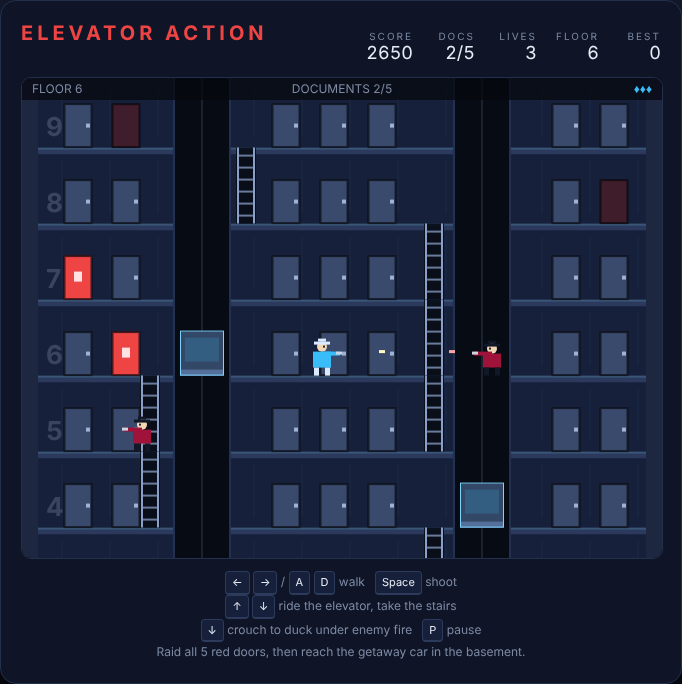
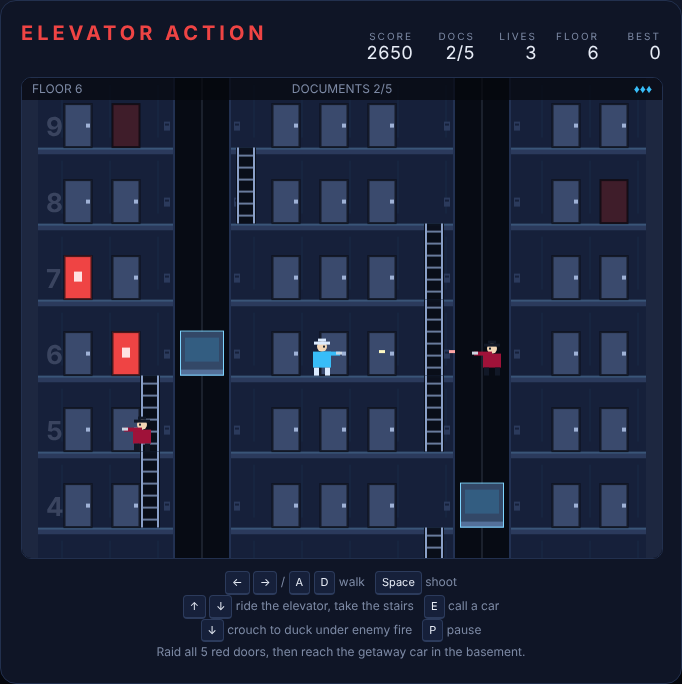
Add elevator call buttons and polish Elevator Action
A scripted bot playthrough soft-locked on floor 8: the shafts split each
floor into three zones, and with both cars parked elsewhere a zone can be a
dead end. Cars can now be called to your floor with E (or Enter) while
standing by a shaft doorway, with call plates that light up in range.

The call runs on its own key rather than Up/Down because a stairwell's snap
zone can cover a doorway's whole call range, which left about four pixels of
floor where a car could be called at all.

Also: figures now read as people rather than coloured blocks, the help
legend and docs cover the call key, and the README marks the game Complete.
The bot now finishes the building — five documents and the basement escape —
and the suite is 81 passing tests.

Claude-Session: https://claude.ai/code/session_01BW6kgjXZLT5MXwmKtbhaHk

Changed region(s): [[0.2771, 0.8596, 0.739, 0.9211]]

diff --git a/ElevatorAction/tests/elevator-action.spec.js b/ElevatorAction/tests/elevator-action.spec.js
@@ -501,6 +501,116 @@ test.describe('Elevator Action', () => {
             );
         });
 
+        test('holding the call key beside a shaft calls the car toward your floor', async ({ page }) => {
+            await page.evaluate(() => {
+                cars[0].y = floorY(6);
+                player.floor = 4;
+                player.y = floorY(4);
+                player.x = shafts[0].x - shafts[0].w / 2 - 4;
+                player.mode = 'floor';
+            });
+            await hold(page, 'KeyE');
+            await step(page, 120);
+            const { carY, lo, hi } = await page.evaluate(() => ({
+                carY: cars[0].y,
+                lo: floorY(4),
+                hi: floorY(6),
+            }));
+            expect(carY).toBeLessThan(hi);
+            expect(carY).toBeGreaterThan(lo);
+        });
+
+        test('a called car stops level with the floor and can be boarded', async ({ page }) => {
+            await page.evaluate(() => {
+                cars[0].y = floorY(6);
+                player.floor = 4;
+                player.y = floorY(4);
+                player.x = shafts[0].x - shafts[0].w / 2 - 4;
+                player.mode = 'floor';
+            });
+            await hold(page, 'KeyE');
+            await step(page, 600);
+            expect(await page.evaluate(() => cars[0].y)).toBe(await page.evaluate(() => floorY(4)));
+            expect(await page.evaluate(() => player.mode)).toBe('floor');
+
+            await hold(page, 'KeyE', false);
+            await hold(page, 'ArrowRight');
+            await step(page, 40);
+            expect(await page.evaluate(() => player.mode)).toBe('elevator');
+        });
+
+        test('calling never drags a car past the player floor', async ({ page }) => {
+            await page.evaluate(() => {
+                cars[0].y = floorY(2);
+                player.floor = 5;
+                player.y = floorY(5);
+                player.x = shafts[0].x + shafts[0].w / 2 + 32;
+                player.mode = 'floor';
+            });
+            await hold(page, 'KeyE');
+            await step(page, 900);
+            expect(await page.evaluate(() => cars[0].y)).toBe(await page.evaluate(() => floorY(5)));
+        });
+
+        test('the call key works from a stairwell too, without climbing it', async ({ page }) => {
+            await page.evaluate(() => {
+                // A stairwell slot sits close enough to a shaft that Up or Down
+                // there would mean "climb"; the call key is unambiguous.
+                const s = stairs.find(
+                    (st) =>
+                        st.upper === 3 &&
+                        shafts.some((sh) => Math.abs(st.x - sh.x) <= sh.w / 2 + CALL_DX)
+                );
+                cars[0].y = floorY(8);
+                cars[1].y = floorY(8);
+                player.floor = 3;
+                player.y = floorY(3);
+                player.x = s.x;
+                player.mode = 'floor';
+            });
+            await hold(page, 'KeyE');
+            await step(page, 20);
+            expect(await page.evaluate(() => player.mode)).toBe('floor');
+            const moved = await page.evaluate(() =>
+                cars.some((c) => Math.abs(c.y - floorY(8)) > 0.5)
+            );
+            expect(moved).toBe(true);
+        });
+
+        test('Up or Down beside a shaft still means stairs and crouching', async ({ page }) => {
+            await page.evaluate(() => {
+                cars[0].y = floorY(8);
+                player.floor = 4;
+                player.y = floorY(4);
+                player.x = shafts[0].x - shafts[0].w / 2 - 4;
+                player.mode = 'floor';
+            });
+            await hold(page, 'ArrowDown');
+            await step(page, 20);
+            expect(await page.evaluate(() => cars[0].y)).toBe(await page.evaluate(() => floorY(8)));
+            const pose = await page.evaluate(() => player.mode);
+            // Either a stairwell is underfoot, or the player simply crouches —
+            // never a lift call.
+            expect(['floor', 'ladder']).toContain(pose);
+        });
+
+        test('the call key does nothing away from a shaft', async ({ page }) => {
+            await page.evaluate(() => {
+                cars[0].y = floorY(8);
+                cars[1].y = floorY(8);
+                player.floor = 4;
+                player.y = floorY(4);
+                player.x = 320;
+                player.mode = 'floor';
+            });
+            await hold(page, 'KeyE');
+            await step(page, 60);
+            const moved = await page.evaluate(() =>
+                cars.some((c) => Math.abs(c.y - floorY(8)) > 0.001)
+            );
+            expect(moved).toBe(false);
+        });
+
         test('a player cannot walk out of a car between floors', async ({ page }) => {
             await page.evaluate(() => {
                 cars[0].y = floorY(6) - FLOOR_H / 2;

diff --git a/ElevatorAction/game.js b/ElevatorAction/game.js
@@ -36,6 +36,7 @@ const BULLET_SPEED = 320;
 const SHAFT_W = 56;
 const CAR_W = 44;
 const BOARD_HALF = 14;               // how centred you must be to board a car
+const CALL_DX = 36;                  // how close to a shaft the call button works
 const SNAP = 3;                      // "level with the floor" tolerance
 const DOOR_W = 28;
 const STAIR_W = 20;
@@ -69,6 +70,7 @@ const RIGHT_KEYS = ['ArrowRight', 'KeyD'];
 const UP_KEYS = ['ArrowUp', 'KeyW'];
 const DOWN_KEYS = ['ArrowDown', 'KeyS'];
 const SHOOT_KEYS = ['Space'];
+const CALL_KEYS = ['KeyE', 'Enter'];
 
 // --- state -----------------------------------------------------------------
 
@@ -331,20 +333,22 @@ function walkFloor(dt, left, right, up, down) {
 
     if (left !== right) player.dir = left ? -1 : 1;
 
+    // The call key summons a car in the shaft beside you. It is deliberately
+    // not Up or Down: a stairwell slot can sit well inside the call range, and
+    // sharing the key would leave only a few pixels where calling is possible.
+    if (held(CALL_KEYS)) {
+        const sh = shaftBeside(player.x);
+        if (sh) callCar(sh, feet, dt);
+    }
+
     // Down means: take the stairs if you are standing on them, else crouch.
-    if (down && !up) {
-        const s = stairAt(player.x, feet, 'top');
+    if (down !== up) {
+        const s = stairAt(player.x, feet, down ? 'top' : 'bottom');
         if (s) {
-            enterStairs(s, 1);
+            enterStairs(s, down ? 1 : -1);
             return;
         }
-        player.crouch = true;
-    } else if (up && !down) {
-        const s = stairAt(player.x, feet, 'bottom');
-        if (s) {
-            enterStairs(s, -1);
-            return;
-        }
+        if (down) player.crouch = true;
     }
 
     if (player.crouch || left === right) return;
@@ -373,6 +377,44 @@ function walkFloor(dt, left, right, up, down) {
             return;
         }
     }
+}
+
+// The shaft whose doorway the player is standing next to, if any.
+function shaftBeside(x) {
+    for (const sh of shafts) {
+        const l = sh.x - sh.w / 2;
+        const r = sh.x + sh.w / 2;
+        if (x >= l - CALL_DX && x <= r + CALL_DX) return sh;
+    }
+    return null;
+}
+
+// Summon the nearest car in a shaft to this floor. Returns false when there is
+// nothing to move: no car in that shaft, or one already level with the floor.
+function callCar(shaft, feet, dt) {
+    let idx = -1;
+    let bestGap = Infinity;
+    for (let i = 0; i < cars.length; i++) {
+        if (cars[i].x !== shaft.x) continue;
+        const gap = Math.abs(cars[i].y - feet);
+        if (gap < bestGap) {
+            bestGap = gap;
+            idx = i;
+        }
+    }
+    if (idx < 0) return false;
+
+    const c = cars[idx];
+    if (Math.abs(c.y - feet) <= SNAP) {
+        c.y = feet;
+        return false;
+    }
+
+    const dir = c.y < feet ? 1 : -1;
+    c.y += dir * CAR_SPEED * dt;
+    if ((dir > 0 && c.y > feet) || (dir < 0 && c.y < feet)) c.y = feet;
+    c.y = clamp(c.y, floorY(0), floorY(FLOORS - 1));
+    return true;
 }
 
 // The index of a car in this shaft whose roof is level with `feet`, else -1.
@@ -719,6 +761,24 @@ function drawShafts() {
         ctx.moveTo(sh.x, 0);
         ctx.lineTo(sh.x, BUILDING_H);
         ctx.stroke();
+    }
+
+    // Call plates beside each doorway, lit when the player is close enough to
+    // use them.
+    const beside = player.mode === 'floor' ? shaftBeside(player.x) : null;
+    for (const sh of shafts) {
+        const lit = beside === sh;
+        for (let f = 0; f < FLOORS; f++) {
+            const feet = floorY(f);
+            const onThisFloor = lit && Math.abs(player.y - feet) <= SNAP;
+            for (const side of [-1, 1]) {
+                const px = sh.x + side * (sh.w / 2 + 7);
+                ctx.fillStyle = onThisFloor ? '#38bdf8' : '#2b3a5c';
+                ctx.fillRect(px - 3, feet - 26, 6, 9);
+                ctx.fillStyle = onThisFloor ? '#e0f2fe' : '#16203a';
+                ctx.fillRect(px - 2, feet - 24, 4, 2);
+            }
+        }
     }
 
     for (const c of cars) {

diff --git a/ElevatorAction/index.html b/ElevatorAction/index.html
@@ -31,7 +31,7 @@
 
         <div class="help">
             <p><kbd>&larr;</kbd> <kbd>&rarr;</kbd> / <kbd>A</kbd> <kbd>D</kbd> walk &nbsp; <kbd>Space</kbd> shoot</p>
-            <p><kbd>&uarr;</kbd> <kbd>&darr;</kbd> ride the elevator, take the stairs</p>
+            <p><kbd>&uarr;</kbd> <kbd>&darr;</kbd> ride the elevator, take the stairs &nbsp; <kbd>E</kbd> call a car</p>
             <p><kbd>&darr;</kbd> crouch to duck under enemy fire &nbsp; <kbd>P</kbd> pause</p>
             <p>Raid all 5 red doors, then reach the getaway car in the basement.</p>
         </div>

diff --git a/ElevatorAction/DESIGN.md b/ElevatorAction/DESIGN.md
@@ -58,7 +58,17 @@ car.
 car at `CAR_SPEED` and the player rides along. Cars clamp to the top and
 bottom feet levels of the building. Walking off the side of a car is only
 allowed when the car is level with a floor; otherwise the player is clamped to
-the car's width.
+the car's width. A car that *is* level with a floor doubles as a bridge, so
+walking straight on and off the far side crosses the shaft.
+
+**Calling a car.** Standing within `CALL_DX` of a shaft doorway and holding the
+call key (E, or Enter) drives the nearest car in that shaft toward your floor,
+stopping level with it. The call plates beside each doorway light up when you
+are close enough to use them. The key is deliberately *not* Up or Down: a
+stairwell slot can sit entirely inside a doorway's call range, and sharing the
+key left only a few pixels of floor where a car could be called at all — found
+by a scripted bot playthrough that soft-locked on floor 8 for exactly that
+reason.
 
 **Stairwells.** Pressing Down while standing at a stairwell's top, or Up while
 standing at its bottom, puts the player in `'ladder'` mode; they then climb at
@@ -99,11 +109,13 @@ without the full set does nothing.
 | &uarr; &darr; / W S | Ride elevator, climb stairs |
 | &darr; / S | Crouch (on a floor, away from stairs) |
 | Space | Shoot |
+| E / Enter | Call a car to your floor (standing by a shaft) |
 | P | Pause |
 | Space / Start button | Start, or restart after a game over |
 
 Key priority when Down is pressed: ride an elevator, else enter a stairwell,
-else crouch.
+else crouch. Calling runs on its own key, so it never competes with any of
+those.
 
 ## Code shape
 
@@ -145,6 +157,8 @@ room, resolved toward the simpler reading:
    collected documents are kept. Losing progress on a 10-floor descent felt
    punishing out of proportion.
 8. **Agents do not crouch**, so every player bullet that lines up connects.
+   They also ignore shaft openings when they walk, where the player does not:
+   agents patrol the full width of their floor.
 9. **One building, repeatable.** Finishing the building wins the run outright
    rather than generating a harder second building; `level` exists in the code
    and seeds layout generation, but a single escape ends the game.

diff --git a/ElevatorAction/README.md b/ElevatorAction/README.md
@@ -12,7 +12,8 @@ install.
 1. You start on the top floor (floor 9). The building scrolls as you move.
 2. Walk into a **red door** to grab the document behind it. There are five, one
    per floor, and the HUD counts them down.
-3. Work your way down by **elevator** or **stairwell**.
+3. Work your way down by **elevator** or **stairwell**. The shafts split each
+   floor into three, so sometimes you have to call a car over just to cross.
 4. **Agents** step out of the plain grey doors. Shoot them, or crouch so their
    shots pass overhead — a standing hit costs a life, and so does walking into
    one.
@@ -27,6 +28,7 @@ install.
 | &uarr; &darr; or W S | Ride the elevator you are standing on, climb a stairwell |
 | &darr; or S | Crouch (when you are not standing on a stairwell) |
 | Space | Shoot |
+| E or Enter | Call a car to your floor (stand by a shaft doorway) |
 | P | Pause |
 | Space / Start | Begin, or start again after a game over |
 
@@ -36,7 +38,9 @@ stairwell, crouch.
 ## Elevators and stairwells
 
 * An elevator car only moves while you are riding it, so a car you leave
-  behind stays where you parked it.
+  behind stays where you parked it. Stand beside a shaft and press **E** to
+  call the nearest car to your floor — the plates beside the doorway light up
+  when you are close enough.
 * A shaft with no car in front of you is a wall — you cannot fall down it.
 * A car that is level with a floor doubles as a bridge, so you can walk
   straight across the shaft as well as ride.

diff --git a/README.md b/README.md
@@ -142,7 +142,7 @@ For each new game, put it in a new folder. Each game should have its own README.
 | Canyon Raider | [CanyonRaider/](CanyonRaider/) | Complete |
 | Air Traffic Control | [AirTrafficControl/](AirTrafficControl/) | Complete |
 | Gold Runner | [GoldRunner/](GoldRunner/) | Complete |
-| Elevator Action | [ElevatorAction/](ElevatorAction/) | In Progress |
+| Elevator Action | [ElevatorAction/](ElevatorAction/) | Complete |
 
 ## Playing
 
